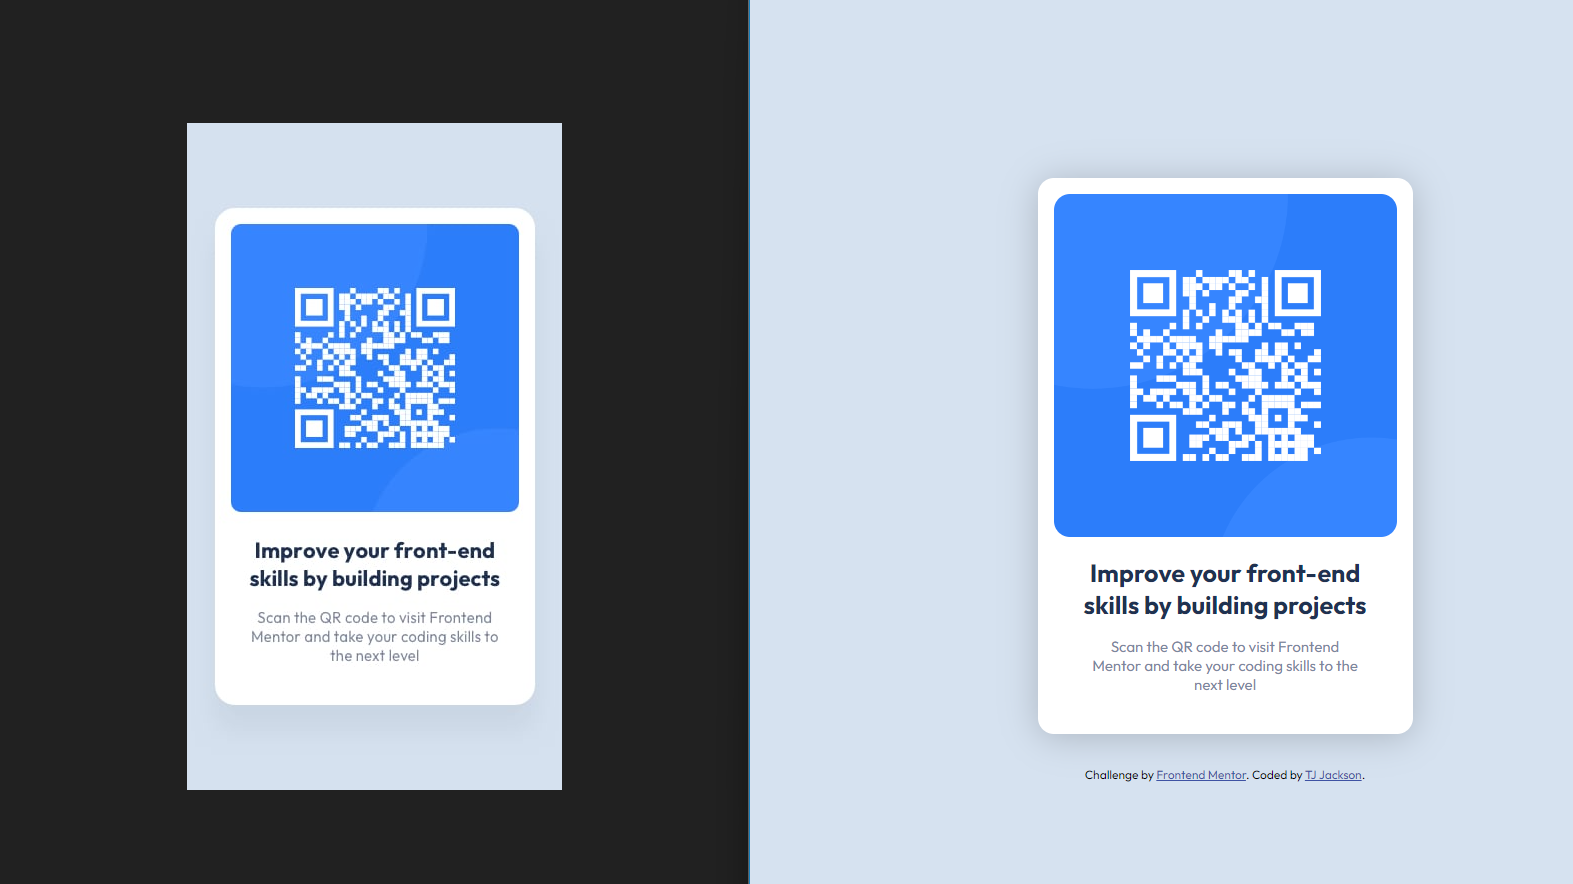
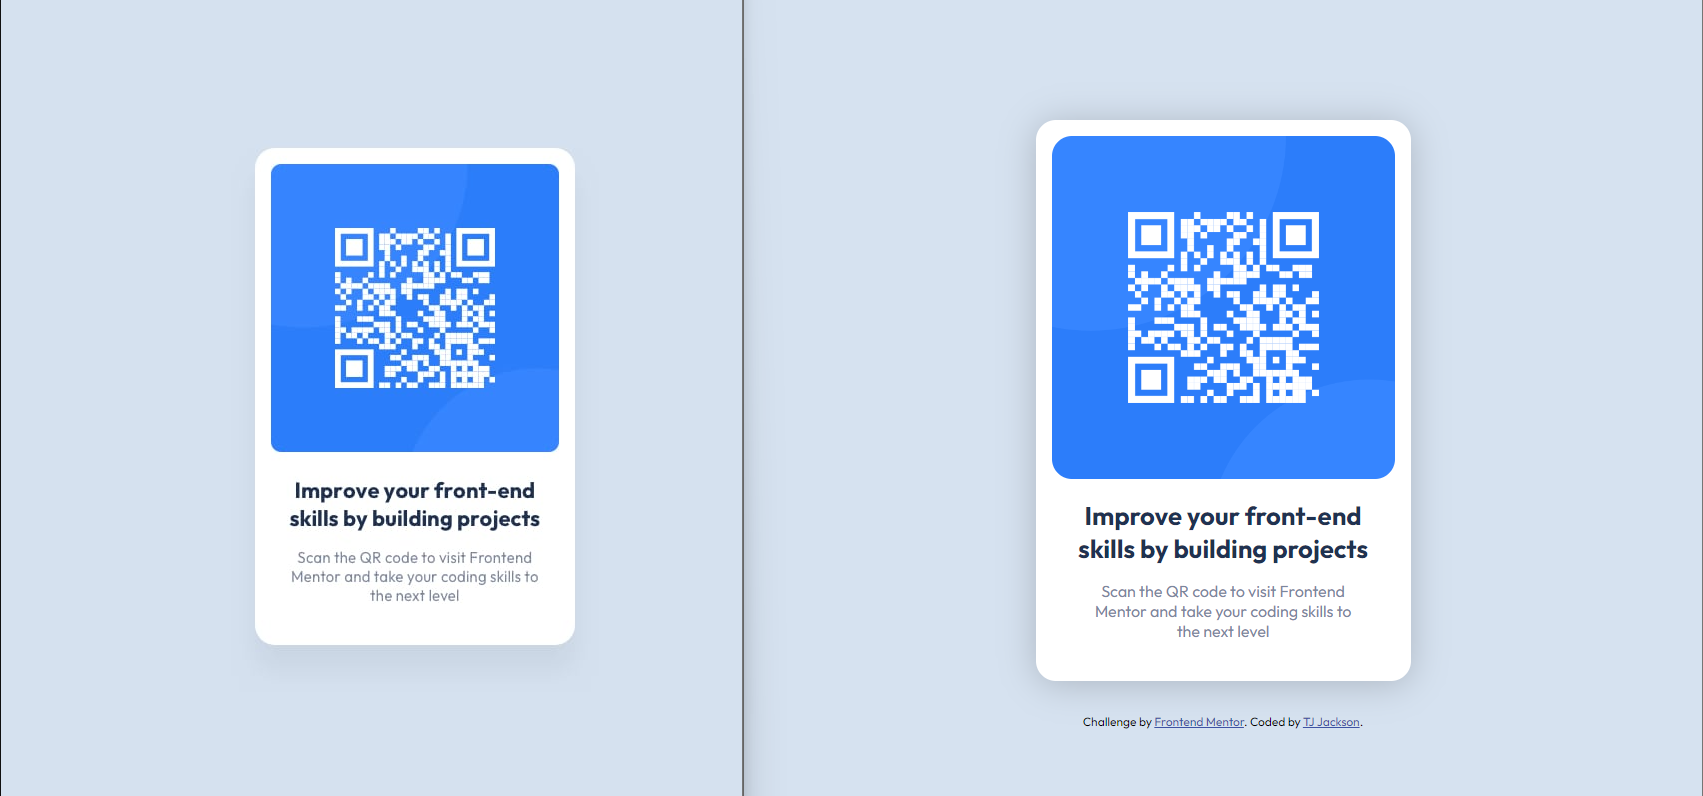
updated css and thumbnail

diff --git a/style.css b/style.css
@@ -31,12 +31,12 @@ body {
     padding: 1em;
     background-color: var(--White);
     box-shadow: 0px 3px 35px rgba(0, 0, 0, 0.2);
-    border-radius: 1rem;
+    border-radius: 1.25rem;
 }
 
 img {
     max-width: 100%;
-    border-radius: 1rem;
+    border-radius: 1.25rem;
     margin-bottom: 1rem;
 }
 
@@ -44,13 +44,13 @@ h1 {
     font-weight: 700;
     color: var(--Darkblue);
     margin-bottom: 1rem;
-    font-size: 25px;
+    font-size: 1.6em;
 }
 
 p {
-    margin: .75rem;
+    margin: .4rem;
     font-weight: 400;
-    font-size: 15px;
+    font-size: 1em;
     color: var(--Grayishblue);
     margin-bottom: 1.5rem;
 }
